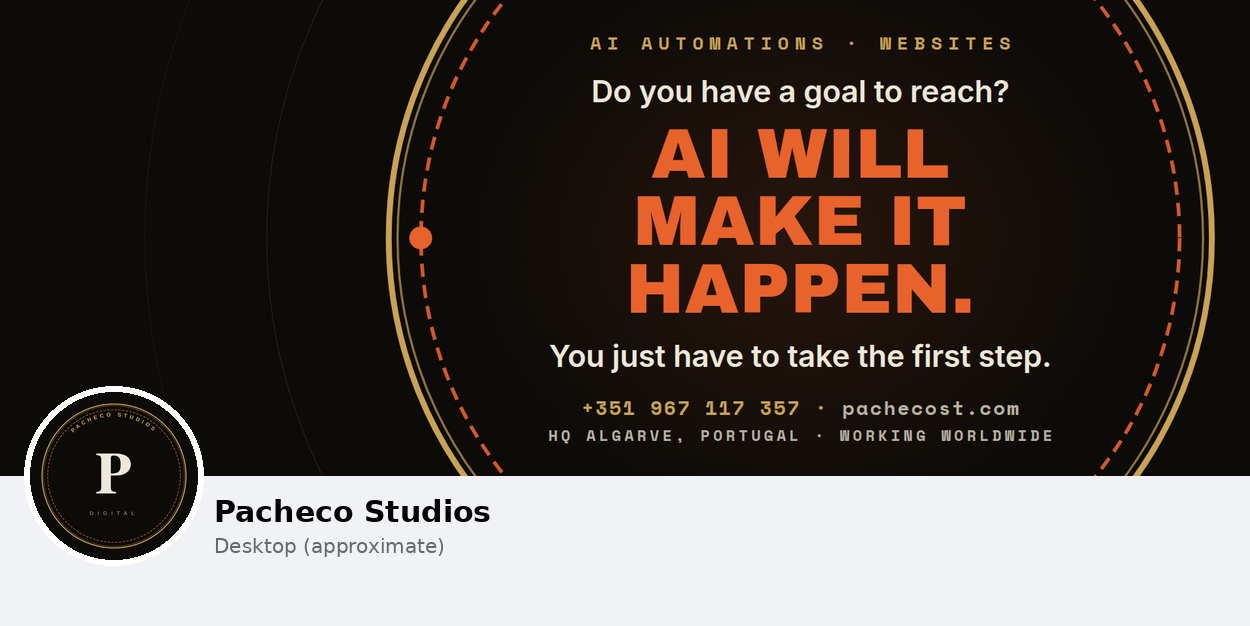
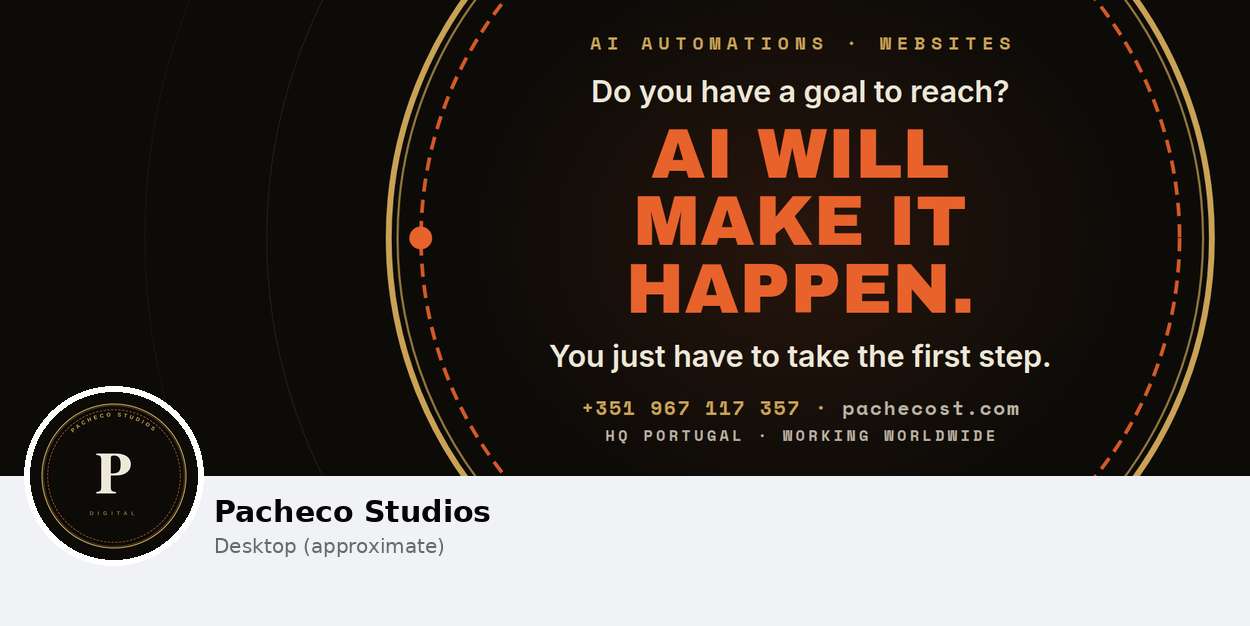
Capa EN e bio do Instagram: "businesses" em vez de "local businesses" e sede só "Portugal"
Bio do Instagram passa a 132/150 carateres. Capa inglesa (selo aberto e
ondas) regenerada com "HQ Portugal · Working worldwide"; as capas PT ficam
iguais ao byte. LEIA-ME e PLAYBOOK atualizados.

Claude-Session: https://claude.ai/code/session_01PCNLBUoGBpSZ9HyeNo7WFi

Changed region(s): [[0.4368, 0.6677, 0.8424, 0.7284]]

diff --git a/social/facebook/capa/capa.html b/social/facebook/capa/capa.html
@@ -31,4 +31,4 @@ html,body{background:#2a2a2a}
 .d-b .eyebrow{margin-right:-.32em}
 .d-b .contacto{margin-right:-.08em}
 .d-b .big{font-size:92px}
-</style></head><body><div class="capa d-a l-pt" id="a-pt" lang="pt"><div class="brilho"></div><svg class="fundo" viewBox="0 0 1640 924" width="1640" height="924"><circle cx="170" cy="830" r="440" fill="none" stroke="#C9A256" stroke-width="1.6" opacity="0.4"/><circle cx="170" cy="830" r="630" fill="none" stroke="#C9A256" stroke-width="1.3" opacity="0.27"/><circle cx="170" cy="830" r="850" fill="none" stroke="#C9A256" stroke-width="1.1" opacity="0.18"/><circle cx="170" cy="830" r="1100" fill="none" stroke="#C9A256" stroke-width="1" opacity="0.11"/><circle cx="170" cy="830" r="1380" fill="none" stroke="#C9A256" stroke-width="1" opacity="0.06"/><circle cx="170" cy="830" r="300.0" fill="none" stroke="#C9A256" stroke-width="4.29"/><circle cx="170" cy="830" r="293.6" fill="none" stroke="#C9A256" stroke-width="1.61" opacity=".7"/><circle cx="170" cy="830" r="276.4" fill="none" stroke="#E8622C" stroke-width="2.68" stroke-dasharray="9.6 5.9" opacity=".9" /><circle cx="409" cy="692" r="15" fill="#E8622C"/></svg><div class="bloco "><p class="eyebrow">Automações com IA · Sites</p><p class="l1">Tens um objetivo a atingir?</p><p class="big">A IA vai<br><span class="nb">fazê-lo</span><br>acontecer.</p><p class="l3">Só tens de dar o primeiro passo.</p><p class="contacto"><b>967 117 357</b><i aria-hidden="true">·</i>pachecost.com</p></div></div><div class="capa d-b l-pt" id="b-pt" lang="pt"><div class="brilho"></div><svg class="fundo" viewBox="0 0 1640 924" width="1640" height="924"><circle cx="1050" cy="462" r="700" fill="none" stroke="#C9A256" stroke-width="1.1" opacity="0.16"/><circle cx="1050" cy="462" r="860" fill="none" stroke="#C9A256" stroke-width="1" opacity="0.09"/><circle cx="1050" cy="462" r="540.0" fill="none" stroke="#C9A256" stroke-width="7.71"/><circle cx="1050" cy="462" r="528.4" fill="none" stroke="#C9A256" stroke-width="2.89" opacity=".7"/><circle cx="1050" cy="462" r="497.6" fill="none" stroke="#E8622C" stroke-width="4.82" stroke-dasharray="17.4 10.6" opacity=".9" /><circle cx="552" cy="462" r="15" fill="#E8622C"/></svg><div class="bloco "><p class="eyebrow">Automações com IA · Sites</p><p class="l1">Tens um objetivo a atingir?</p><p class="big">A IA vai<br><span class="nb">fazê-lo</span><br>acontecer.</p><p class="l3">Só tens de dar o primeiro passo.</p><p class="contacto"><b>967 117 357</b><i aria-hidden="true">·</i>pachecost.com</p></div></div><div class="capa d-a l-en" id="a-en" lang="en"><div class="brilho"></div><svg class="fundo" viewBox="0 0 1640 924" width="1640" height="924"><circle cx="170" cy="830" r="440" fill="none" stroke="#C9A256" stroke-width="1.6" opacity="0.4"/><circle cx="170" cy="830" r="630" fill="none" stroke="#C9A256" stroke-width="1.3" opacity="0.27"/><circle cx="170" cy="830" r="850" fill="none" stroke="#C9A256" stroke-width="1.1" opacity="0.18"/><circle cx="170" cy="830" r="1100" fill="none" stroke="#C9A256" stroke-width="1" opacity="0.11"/><circle cx="170" cy="830" r="1380" fill="none" stroke="#C9A256" stroke-width="1" opacity="0.06"/><circle cx="170" cy="830" r="300.0" fill="none" stroke="#C9A256" stroke-width="4.29"/><circle cx="170" cy="830" r="293.6" fill="none" stroke="#C9A256" stroke-width="1.61" opacity=".7"/><circle cx="170" cy="830" r="276.4" fill="none" stroke="#E8622C" stroke-width="2.68" stroke-dasharray="9.6 5.9" opacity=".9" /><circle cx="409" cy="692" r="15" fill="#E8622C"/></svg><div class="bloco "><p class="eyebrow">AI automations · Websites</p><p class="l1">Do you have a goal to reach?</p><p class="big">AI will<br>make it<br>happen.</p><p class="l3">You just have to take the first step.</p><p class="contacto"><b>+351 967 117 357</b><i aria-hidden="true">·</i>pachecost.com</p><p class="local">HQ Algarve, Portugal · Working worldwide</p></div></div><div class="capa d-b l-en" id="b-en" lang="en"><div class="brilho"></div><svg class="fundo" viewBox="0 0 1640 924" width="1640" height="924"><circle cx="1050" cy="462" r="700" fill="none" stroke="#C9A256" stroke-width="1.1" opacity="0.16"/><circle cx="1050" cy="462" r="860" fill="none" stroke="#C9A256" stroke-width="1" opacity="0.09"/><circle cx="1050" cy="462" r="540.0" fill="none" stroke="#C9A256" stroke-width="7.71"/><circle cx="1050" cy="462" r="528.4" fill="none" stroke="#C9A256" stroke-width="2.89" opacity=".7"/><circle cx="1050" cy="462" r="497.6" fill="none" stroke="#E8622C" stroke-width="4.82" stroke-dasharray="17.4 10.6" opacity=".9" /><circle cx="552" cy="462" r="15" fill="#E8622C"/></svg><div class="bloco "><p class="eyebrow">AI automations · Websites</p><p class="l1">Do you have a goal to reach?</p><p class="big">AI will<br>make it<br>happen.</p><p class="l3">You just have to take the first step.</p><p class="contacto"><b>+351 967 117 357</b><i aria-hidden="true">·</i>pachecost.com</p><p class="local">HQ Algarve, Portugal · Working worldwide</p></div></div></body></html>
+</style></head><body><div class="capa d-a l-pt" id="a-pt" lang="pt"><div class="brilho"></div><svg class="fundo" viewBox="0 0 1640 924" width="1640" height="924"><circle cx="170" cy="830" r="440" fill="none" stroke="#C9A256" stroke-width="1.6" opacity="0.4"/><circle cx="170" cy="830" r="630" fill="none" stroke="#C9A256" stroke-width="1.3" opacity="0.27"/><circle cx="170" cy="830" r="850" fill="none" stroke="#C9A256" stroke-width="1.1" opacity="0.18"/><circle cx="170" cy="830" r="1100" fill="none" stroke="#C9A256" stroke-width="1" opacity="0.11"/><circle cx="170" cy="830" r="1380" fill="none" stroke="#C9A256" stroke-width="1" opacity="0.06"/><circle cx="170" cy="830" r="300.0" fill="none" stroke="#C9A256" stroke-width="4.29"/><circle cx="170" cy="830" r="293.6" fill="none" stroke="#C9A256" stroke-width="1.61" opacity=".7"/><circle cx="170" cy="830" r="276.4" fill="none" stroke="#E8622C" stroke-width="2.68" stroke-dasharray="9.6 5.9" opacity=".9" /><circle cx="409" cy="692" r="15" fill="#E8622C"/></svg><div class="bloco "><p class="eyebrow">Automações com IA · Sites</p><p class="l1">Tens um objetivo a atingir?</p><p class="big">A IA vai<br><span class="nb">fazê-lo</span><br>acontecer.</p><p class="l3">Só tens de dar o primeiro passo.</p><p class="contacto"><b>967 117 357</b><i aria-hidden="true">·</i>pachecost.com</p></div></div><div class="capa d-b l-pt" id="b-pt" lang="pt"><div class="brilho"></div><svg class="fundo" viewBox="0 0 1640 924" width="1640" height="924"><circle cx="1050" cy="462" r="700" fill="none" stroke="#C9A256" stroke-width="1.1" opacity="0.16"/><circle cx="1050" cy="462" r="860" fill="none" stroke="#C9A256" stroke-width="1" opacity="0.09"/><circle cx="1050" cy="462" r="540.0" fill="none" stroke="#C9A256" stroke-width="7.71"/><circle cx="1050" cy="462" r="528.4" fill="none" stroke="#C9A256" stroke-width="2.89" opacity=".7"/><circle cx="1050" cy="462" r="497.6" fill="none" stroke="#E8622C" stroke-width="4.82" stroke-dasharray="17.4 10.6" opacity=".9" /><circle cx="552" cy="462" r="15" fill="#E8622C"/></svg><div class="bloco "><p class="eyebrow">Automações com IA · Sites</p><p class="l1">Tens um objetivo a atingir?</p><p class="big">A IA vai<br><span class="nb">fazê-lo</span><br>acontecer.</p><p class="l3">Só tens de dar o primeiro passo.</p><p class="contacto"><b>967 117 357</b><i aria-hidden="true">·</i>pachecost.com</p></div></div><div class="capa d-a l-en" id="a-en" lang="en"><div class="brilho"></div><svg class="fundo" viewBox="0 0 1640 924" width="1640" height="924"><circle cx="170" cy="830" r="440" fill="none" stroke="#C9A256" stroke-width="1.6" opacity="0.4"/><circle cx="170" cy="830" r="630" fill="none" stroke="#C9A256" stroke-width="1.3" opacity="0.27"/><circle cx="170" cy="830" r="850" fill="none" stroke="#C9A256" stroke-width="1.1" opacity="0.18"/><circle cx="170" cy="830" r="1100" fill="none" stroke="#C9A256" stroke-width="1" opacity="0.11"/><circle cx="170" cy="830" r="1380" fill="none" stroke="#C9A256" stroke-width="1" opacity="0.06"/><circle cx="170" cy="830" r="300.0" fill="none" stroke="#C9A256" stroke-width="4.29"/><circle cx="170" cy="830" r="293.6" fill="none" stroke="#C9A256" stroke-width="1.61" opacity=".7"/><circle cx="170" cy="830" r="276.4" fill="none" stroke="#E8622C" stroke-width="2.68" stroke-dasharray="9.6 5.9" opacity=".9" /><circle cx="409" cy="692" r="15" fill="#E8622C"/></svg><div class="bloco "><p class="eyebrow">AI automations · Websites</p><p class="l1">Do you have a goal to reach?</p><p class="big">AI will<br>make it<br>happen.</p><p class="l3">You just have to take the first step.</p><p class="contacto"><b>+351 967 117 357</b><i aria-hidden="true">·</i>pachecost.com</p><p class="local">HQ Portugal · Working worldwide</p></div></div><div class="capa d-b l-en" id="b-en" lang="en"><div class="brilho"></div><svg class="fundo" viewBox="0 0 1640 924" width="1640" height="924"><circle cx="1050" cy="462" r="700" fill="none" stroke="#C9A256" stroke-width="1.1" opacity="0.16"/><circle cx="1050" cy="462" r="860" fill="none" stroke="#C9A256" stroke-width="1" opacity="0.09"/><circle cx="1050" cy="462" r="540.0" fill="none" stroke="#C9A256" stroke-width="7.71"/><circle cx="1050" cy="462" r="528.4" fill="none" stroke="#C9A256" stroke-width="2.89" opacity=".7"/><circle cx="1050" cy="462" r="497.6" fill="none" stroke="#E8622C" stroke-width="4.82" stroke-dasharray="17.4 10.6" opacity=".9" /><circle cx="552" cy="462" r="15" fill="#E8622C"/></svg><div class="bloco "><p class="eyebrow">AI automations · Websites</p><p class="l1">Do you have a goal to reach?</p><p class="big">AI will<br>make it<br>happen.</p><p class="l3">You just have to take the first step.</p><p class="contacto"><b>+351 967 117 357</b><i aria-hidden="true">·</i>pachecost.com</p><p class="local">HQ Portugal · Working worldwide</p></div></div></body></html>

diff --git a/social/facebook/capa/gerar.py b/social/facebook/capa/gerar.py
@@ -38,7 +38,7 @@ TEXTOS = {
         l3="You just have to take the first step.",
         tel="+351 967 117 357",
         site="pachecost.com",
-        local="HQ Algarve, Portugal · Working worldwide",
+        local="HQ Portugal · Working worldwide",
     ),
 }
 

diff --git a/PLAYBOOK.md b/PLAYBOOK.md
@@ -12,7 +12,7 @@
 
 ## 1. CONTEXTO
 
-- **Tomás Pacheco**, fundador da Pacheco Studios — agência solo de web design + marketing digital, Algarve. **Foco desde 02/10/2026: automações com IA (WhatsApp) e ferramentas de IA; o site é a porta de entrada, vendido como parte do sistema.** O pachecost.com abre nas automações; ver `sites/pachecost/anuncio-2026-10/LEIA-ME.md` (para onde vai cada ligação: anúncios, cartão `/C`). **Logótipo oficial: o selo** (`logo.svg` do pachecost.com: anéis dourado e laranja tracejado, "P" serifado; decisão de 04/10/2026, não propor outros). Foto de perfil e capa do Facebook em `social/facebook/` (capa em PT e EN; a EN, com "HQ Algarve, Portugal · Working worldwide", é a que está a ser usada). Bio e nome do Instagram, em inglês, em `social/instagram/`.
+- **Tomás Pacheco**, fundador da Pacheco Studios — agência solo de web design + marketing digital, Algarve. **Foco desde 02/10/2026: automações com IA (WhatsApp) e ferramentas de IA; o site é a porta de entrada, vendido como parte do sistema.** O pachecost.com abre nas automações; ver `sites/pachecost/anuncio-2026-10/LEIA-ME.md` (para onde vai cada ligação: anúncios, cartão `/C`). **Logótipo oficial: o selo** (`logo.svg` do pachecost.com: anéis dourado e laranja tracejado, "P" serifado; decisão de 04/10/2026, não propor outros). Foto de perfil e capa do Facebook em `social/facebook/` (capa em PT e EN; a EN, com "HQ Portugal · Working worldwide", é a que está a ser usada). Bio e nome do Instagram, em inglês, em `social/instagram/`.
 - Estudante de Economia na UAlg (campus de Gambelas).
 - Responder **SEMPRE em PT-PT**, tom direto, sem enchimento. Respostas curtas (leitura em telemóvel).
 - **Método:** sites de demonstração criados antes da abordagem, apresentados presencialmente no telemóvel/tablet.

diff --git a/social/facebook/LEIA-ME.md b/social/facebook/LEIA-ME.md
@@ -14,7 +14,7 @@ Feita em 1640×924 (16:9). O computador mostra a faixa do meio, 1640×624 (820×
 |---|---|
 | `capa-facebook-selo-aberto-1640x924.png` | **Recomendada.** O anel do selo em ponto grande, com a frase no lugar do "P"; o ponto laranja da marca no anel tracejado. |
 | `capa-facebook-ondas-1640x924.png` | Os anéis do selo a sair do canto da foto de perfil, como ondas, com o texto à direita. |
-| `capa-facebook-selo-aberto-en-1640x924.png` | **Em inglês (04/10), a usar agora.** Selo aberto com "AI automations · Websites", o lema em inglês, +351 967 117 357 · pachecost.com e "HQ Algarve, Portugal · Working worldwide". |
+| `capa-facebook-selo-aberto-en-1640x924.png` | **Em inglês (04/10), a usar agora.** Selo aberto com "AI automations · Websites", o lema em inglês, +351 967 117 357 · pachecost.com e "HQ Portugal · Working worldwide". |
 | `capa-facebook-ondas-en-1640x924.png` | Ondas, em inglês, com o mesmo texto. |
 
 `previa-*` (com `-en` para as inglesas) mostram cada uma com a foto de perfil por cima, no computador e no telemóvel (posições aproximadas).

diff --git a/social/instagram/LEIA-ME.md b/social/instagram/LEIA-ME.md
@@ -8,15 +8,15 @@ Em inglês, para o público "worldwide". Mesmos conceitos da capa do Facebook em
 Pacheco Studios · AI & Web
 ```
 
-**Bio** (147 de 150 carateres):
+**Bio** (132 de 150 carateres):
 
 ```
-AI automations & websites for local businesses.
-HQ Algarve, Portugal · Working worldwide.
+AI automations & websites for businesses.
+HQ Portugal · Working worldwide.
 Got a goal? AI will make it happen.
 Take the first step ↓
 ```
 
 **Link:** `https://pachecost.com/en/`, sem `utm_` nem `fbclid`. Com esses parâmetros o site entra no modo anúncio: abre nos sites e esconde o lema. Sem eles, abre nas automações, em inglês, desde que o deploy `pachecost-deploy-foco-ia.zip` esteja publicado.
 
-Sede: "Algarve, Portugal", como na capa antiga e no PLAYBOOK. Se a sede mudar, mudar aqui, na capa inglesa (`social/facebook/capa/gerar.py`, campo `local`) e no PLAYBOOK.
+Sede: "Portugal" (decisão do Tomás, 04/10: sem a região, e "businesses" em vez de "local businesses"). Se a sede mudar, mudar aqui, na capa inglesa (`social/facebook/capa/gerar.py`, campo `local`) e no PLAYBOOK.
